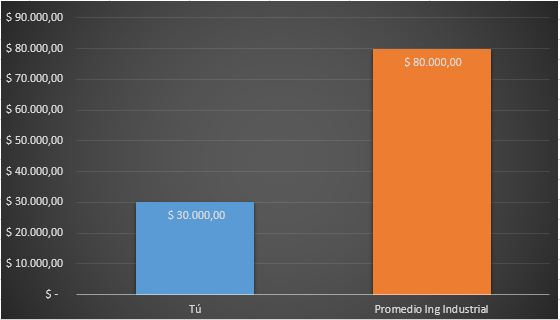
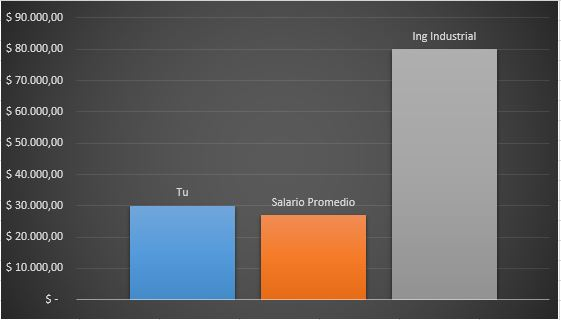
Ajustes primeras 2 graficas

diff --git a/resultado.html b/resultado.html
@@ -114,7 +114,7 @@
         <!-- Projects Row -->
         <div class="row">
                             <h2 align="center">
-                    <p>Comparación entre tu salario y el promedio de un Ingeniero Industrial por mes</p>
+                    <p>Comparación entre tu salario, el promedio y el salario de un Ingeniero Industrial por mes</p>
                 </h2>
             
             
@@ -122,7 +122,7 @@
                                 <h4>
                     <p align="center"><strong>HOMBRE</strong></p>
                 </h4>                    
-                    <img class="img-responsive" src="img/ComparacionSalarioHombre.JPG" alt="Comparación entre tu salario $30000 y el salario promedio de un hombre Ing Industrial $80000">
+                    <img class="img-responsive" src="img/ComparacionSalarioHombre.JPG" alt="Comparación entre tu salario $30000 y el promedio $27000 y el salario de un hombre Ing Industrial $80000">
                 
 
             </div>
@@ -134,10 +134,10 @@
                     <p align="center"><strong>MUJER</strong></p>
                 </h4>
                               
-                    <img class="img-responsive" src="img/ComparacionSalarioMujer.JPG" alt="Comparación entre tu salario $30000 y el salario promedio de una mujer Ing Industrial $55000">
+                    <img class="img-responsive" src="img/ComparacionSalarioMujer.JPG" alt="Comparación entre tu salario $30000, el salario promedio $25000 y el salario de una mujer Ing Industrial $65000">
             </div>
 			
-			<p align="center">Comparación entre tu salario y el salario promedio de un Ing Industrial tanto mujer como hombre</p>
+			<p align="center">Comparación entre tu salario, el salario promedio y el salario de un Ing Industrial tanto mujer como hombre</p>
         
         </div>
         <!-- /.row -->
